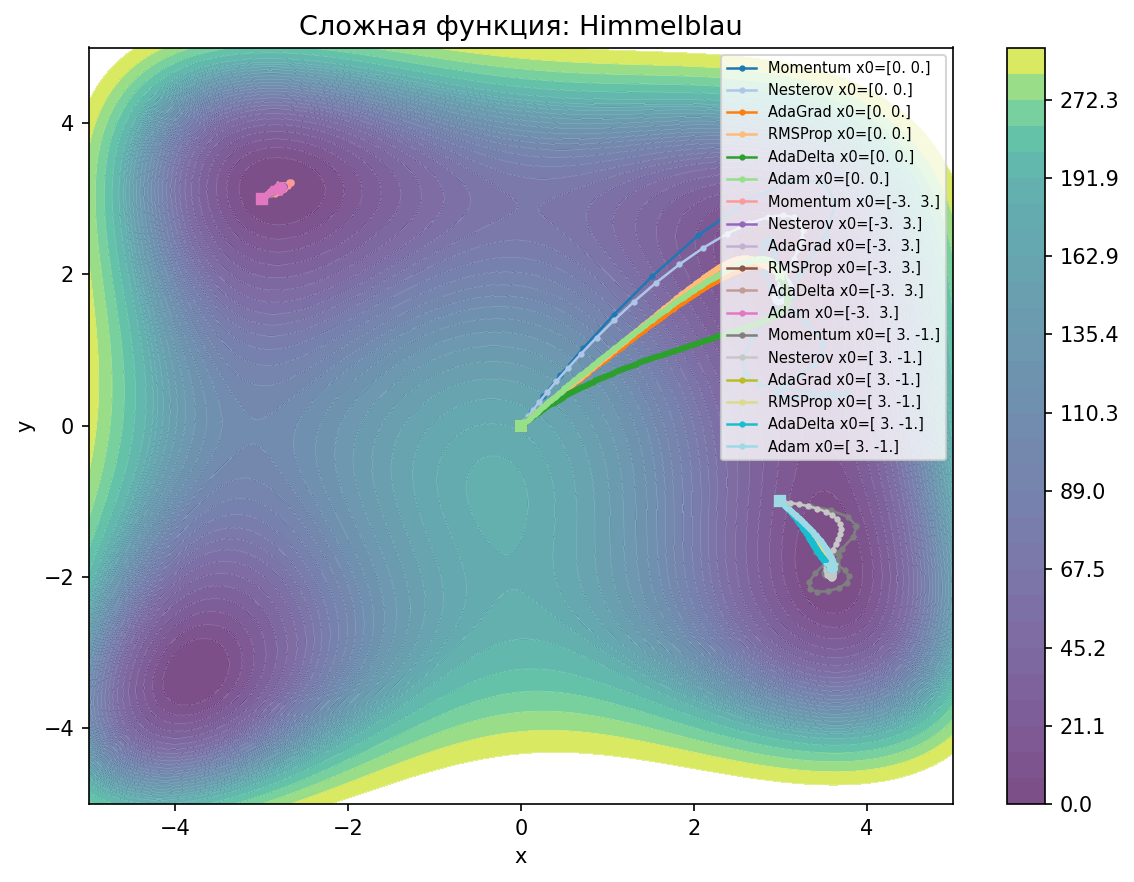
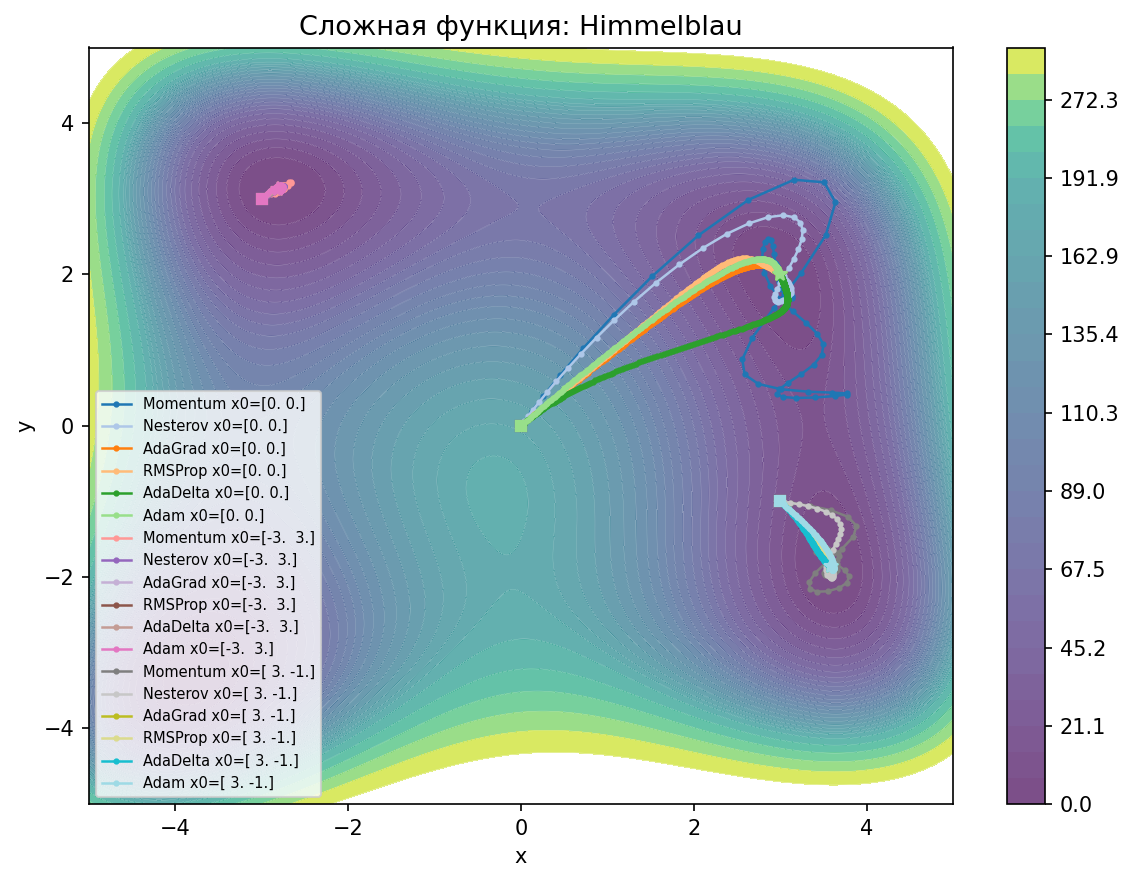
fix

Changed region(s): [[0.0617, 0.4286, 0.3086, 0.9184], [0.6173, 0.0612, 0.8333, 0.5204]]

diff --git a/internal/utils/visualization.py b/internal/utils/visualization.py
@@ -49,7 +49,7 @@ def plot_contour_with_trajectory(
     ax.set_title(title, fontsize=13)
     ax.set_xlabel("x")
     ax.set_ylabel("y")
-    ax.legend(loc="upper right", fontsize=7)
+    ax.legend(loc="best", fontsize=7)
     ax.set_xlim(xlim)
     ax.set_ylim(ylim)
 
